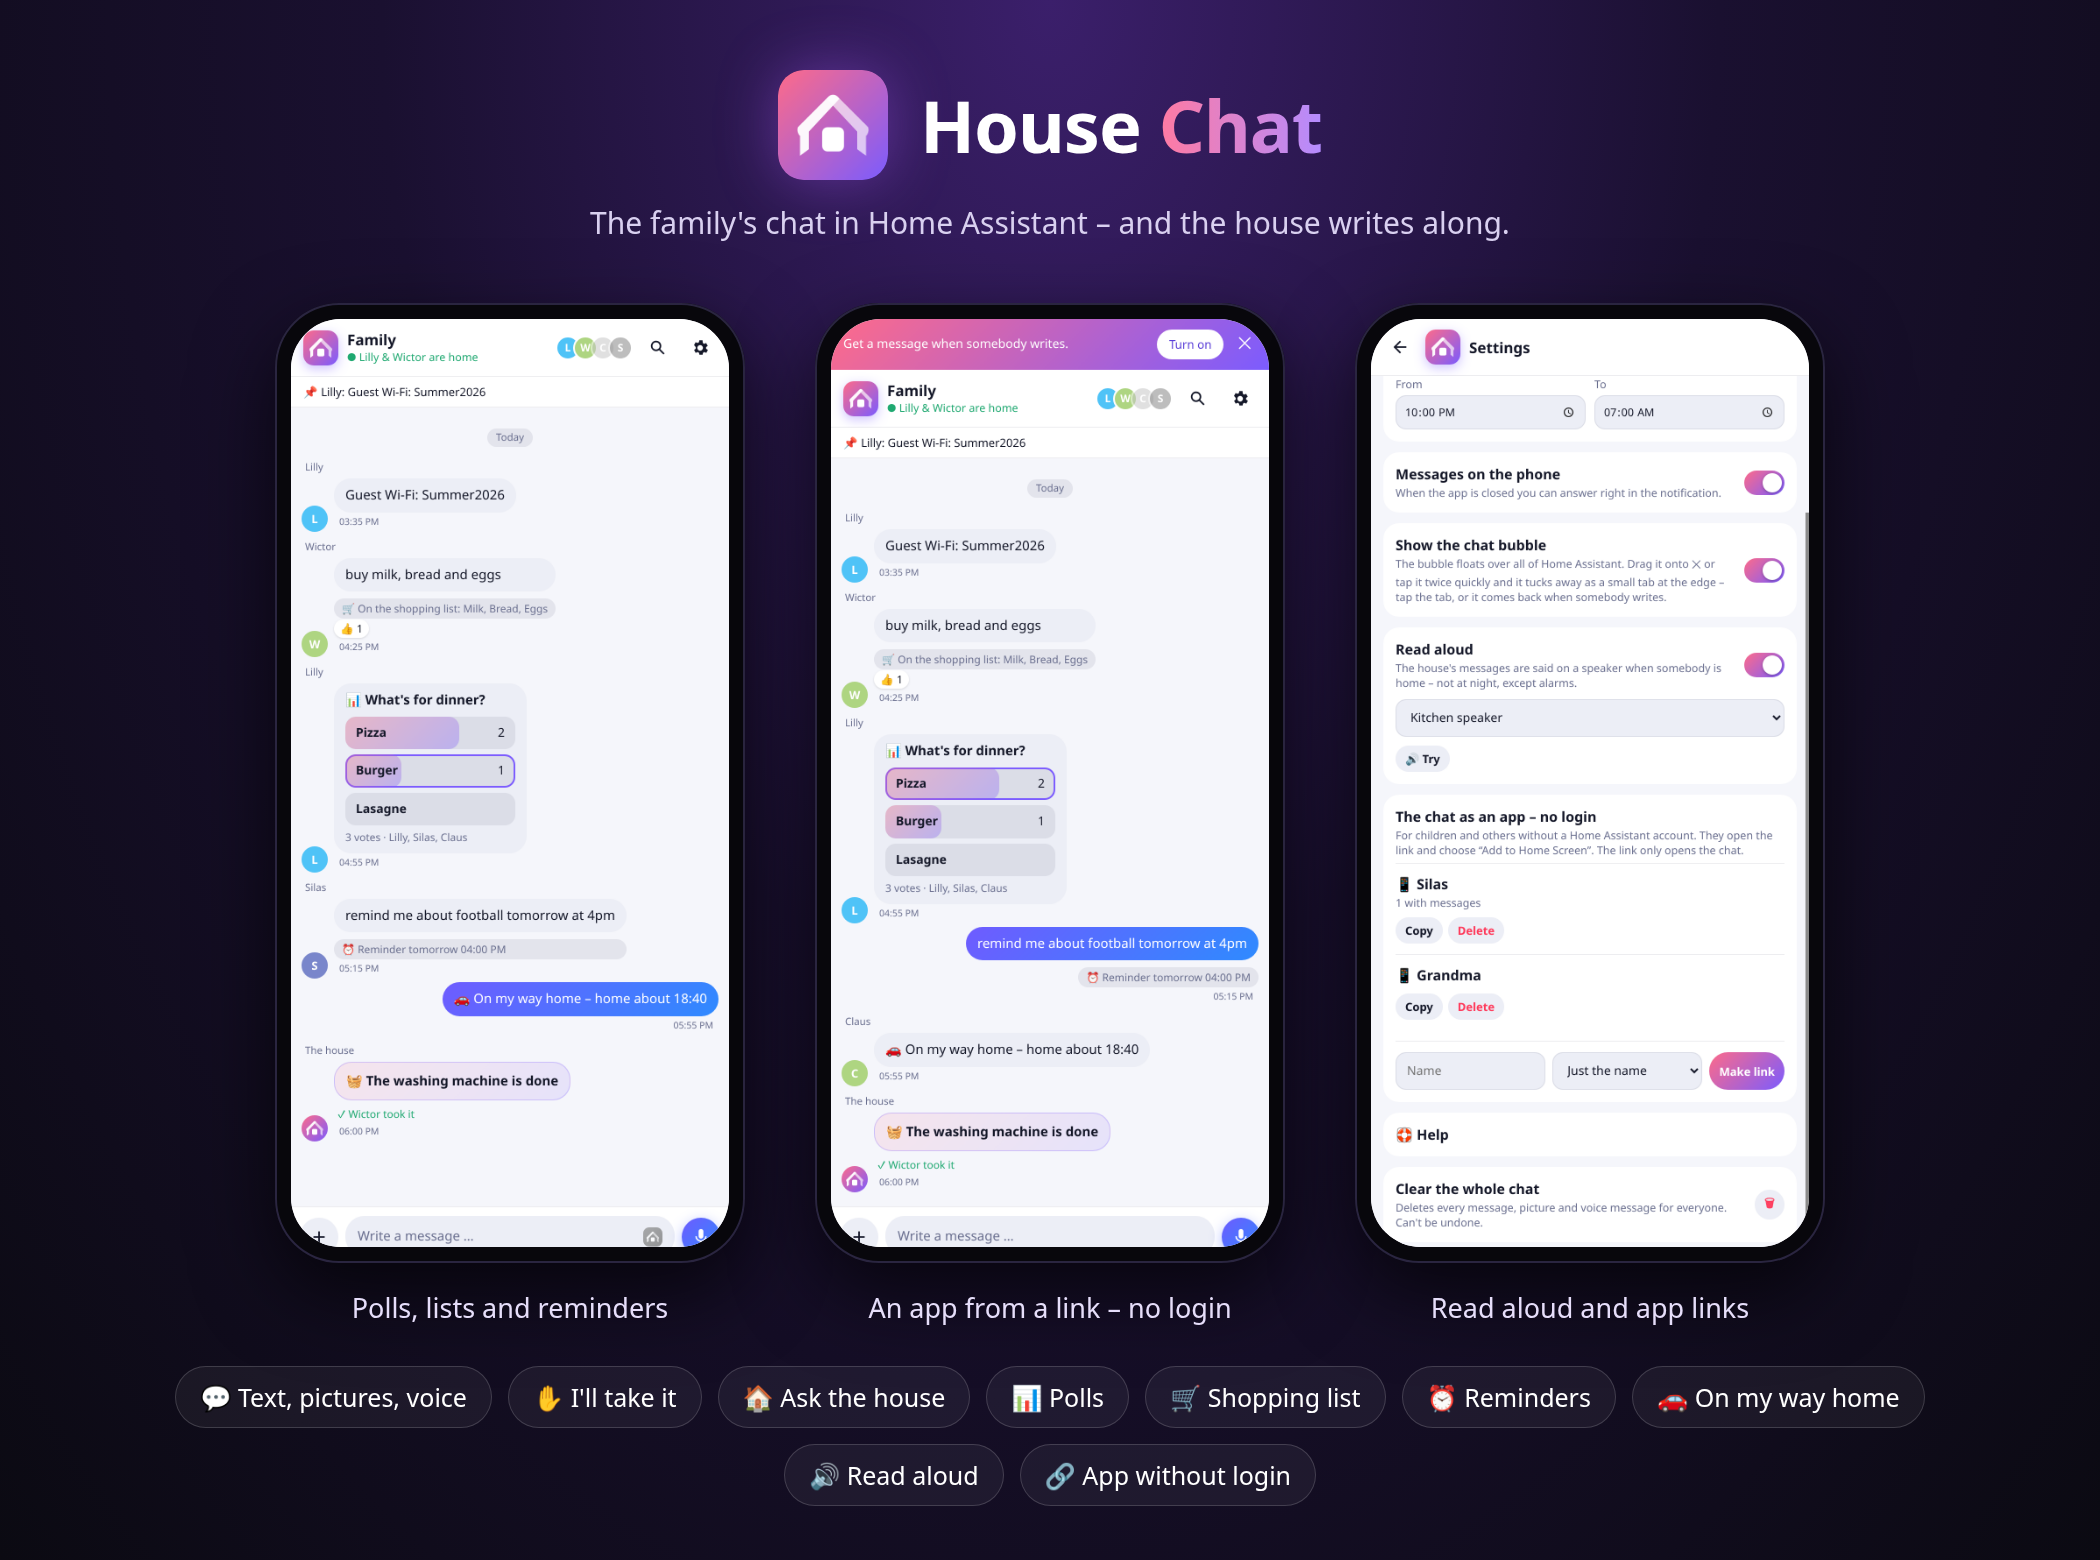
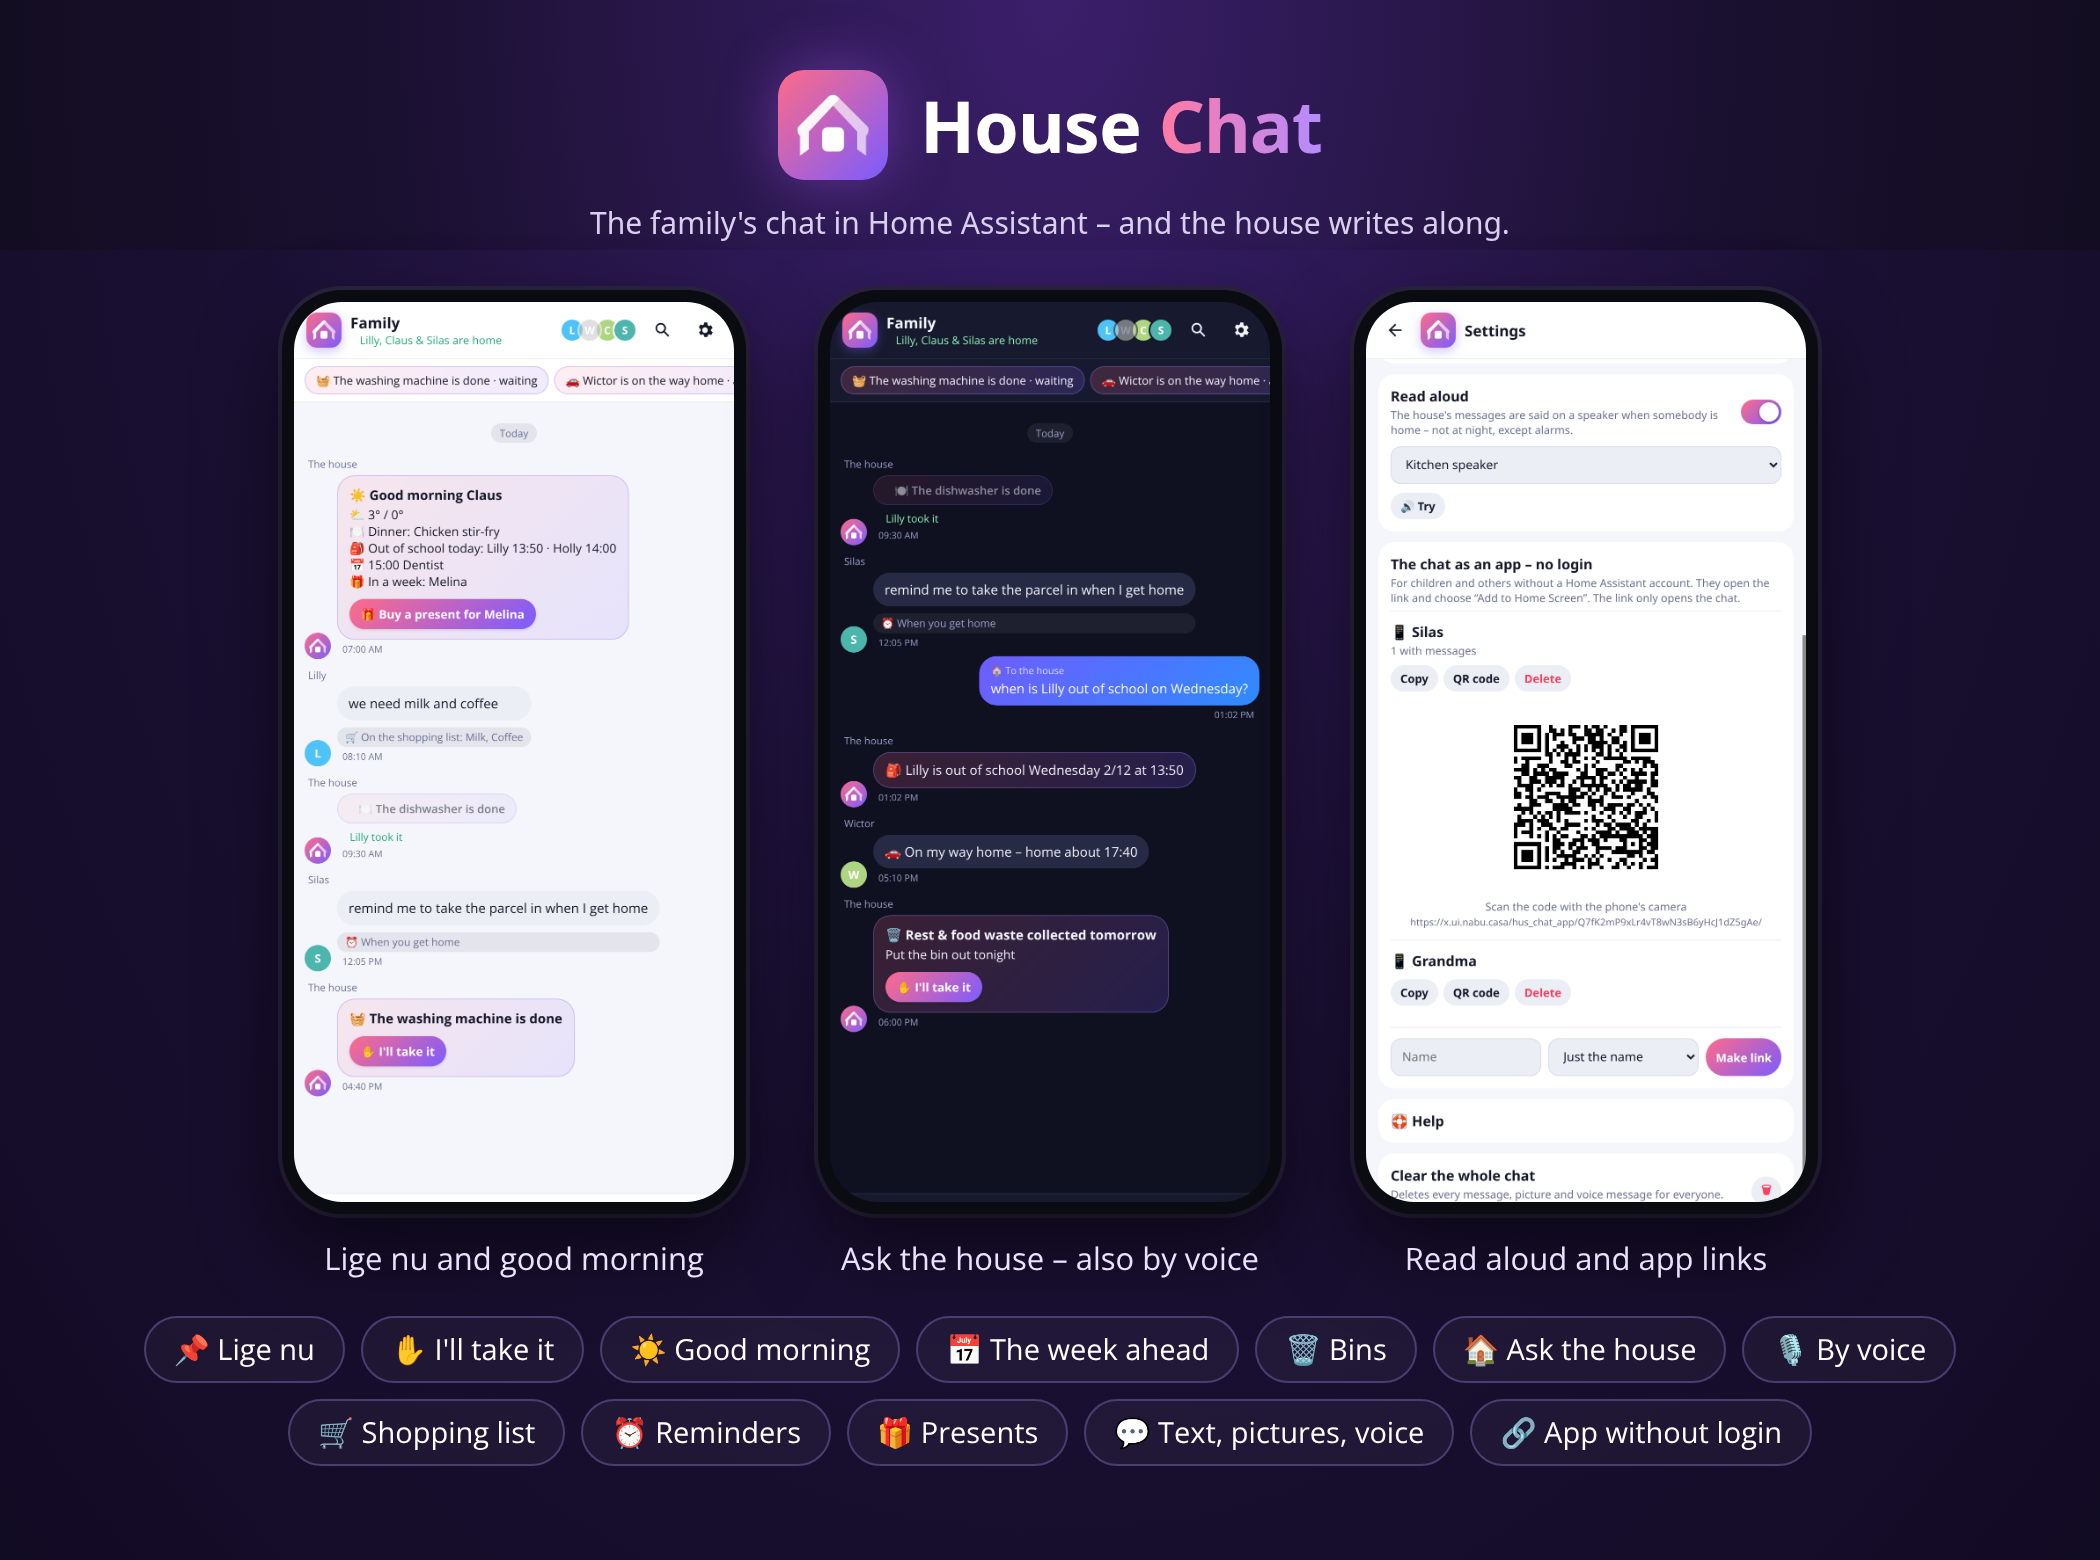
README: new pictures - Lige nu, good morning, ask the house

Changed region(s): [[0.0619, 0.1846, 0.9286, 0.9538], [0.7429, 0.6769, 0.7738, 0.7077]]

diff --git a/README.md b/README.md
@@ -6,7 +6,7 @@
 
 ![House Chat](docs/showcase.png)
 
-<p align="center"><img src="docs/chat_light.png" width="250" alt="The chat"> <img src="docs/chat_dark.png" width="250" alt="Dark theme"> <img src="docs/extras.png" width="250" alt="Picture, poll, on my way home, shopping list"> <img src="docs/app.png" width="250" alt="The app from a link"> <img src="docs/settings.png" width="250" alt="Read aloud and app links with QR code"> <img src="docs/actions.png" width="250" alt="React, reply, pin, edit, delete"></p>
+<p align="center"><img src="docs/chat_light.png" width="250" alt="Lige nu, your own good morning and a present with one tap"> <img src="docs/chat_dark.png" width="250" alt="Ask the house, on my way home and the bins - dark theme"> <img src="docs/extras.png" width="250" alt="Picture, poll, on my way home, shopping list"> <img src="docs/app.png" width="250" alt="The app from a link"> <img src="docs/settings.png" width="250" alt="Read aloud and app links with QR code"> <img src="docs/actions.png" width="250" alt="React, reply, pin, edit, delete"></p>
 
 ## English
 
